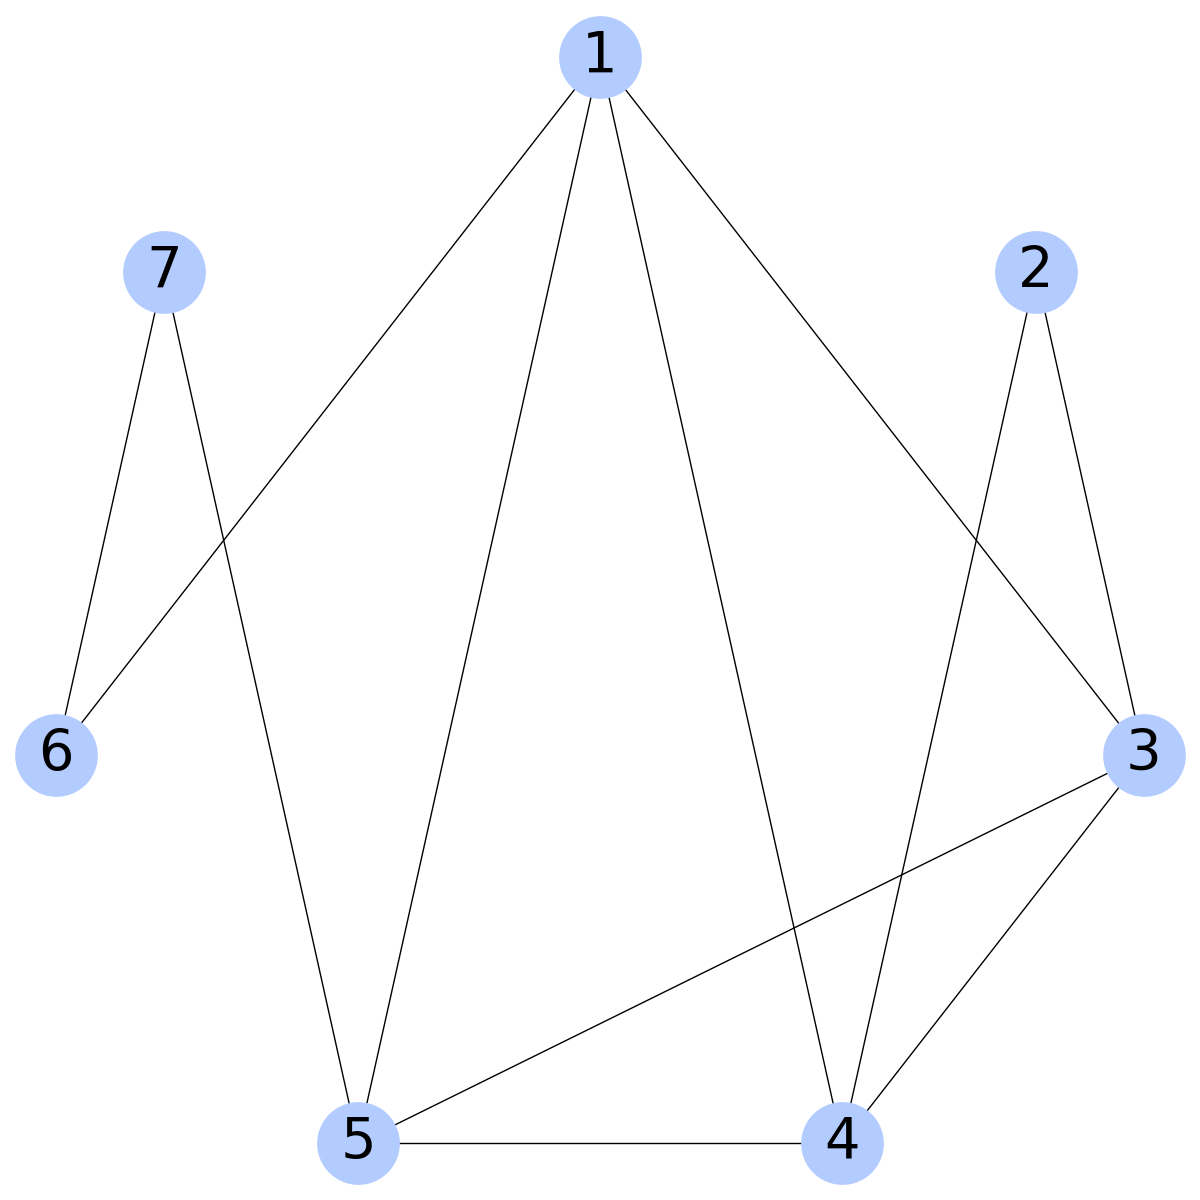
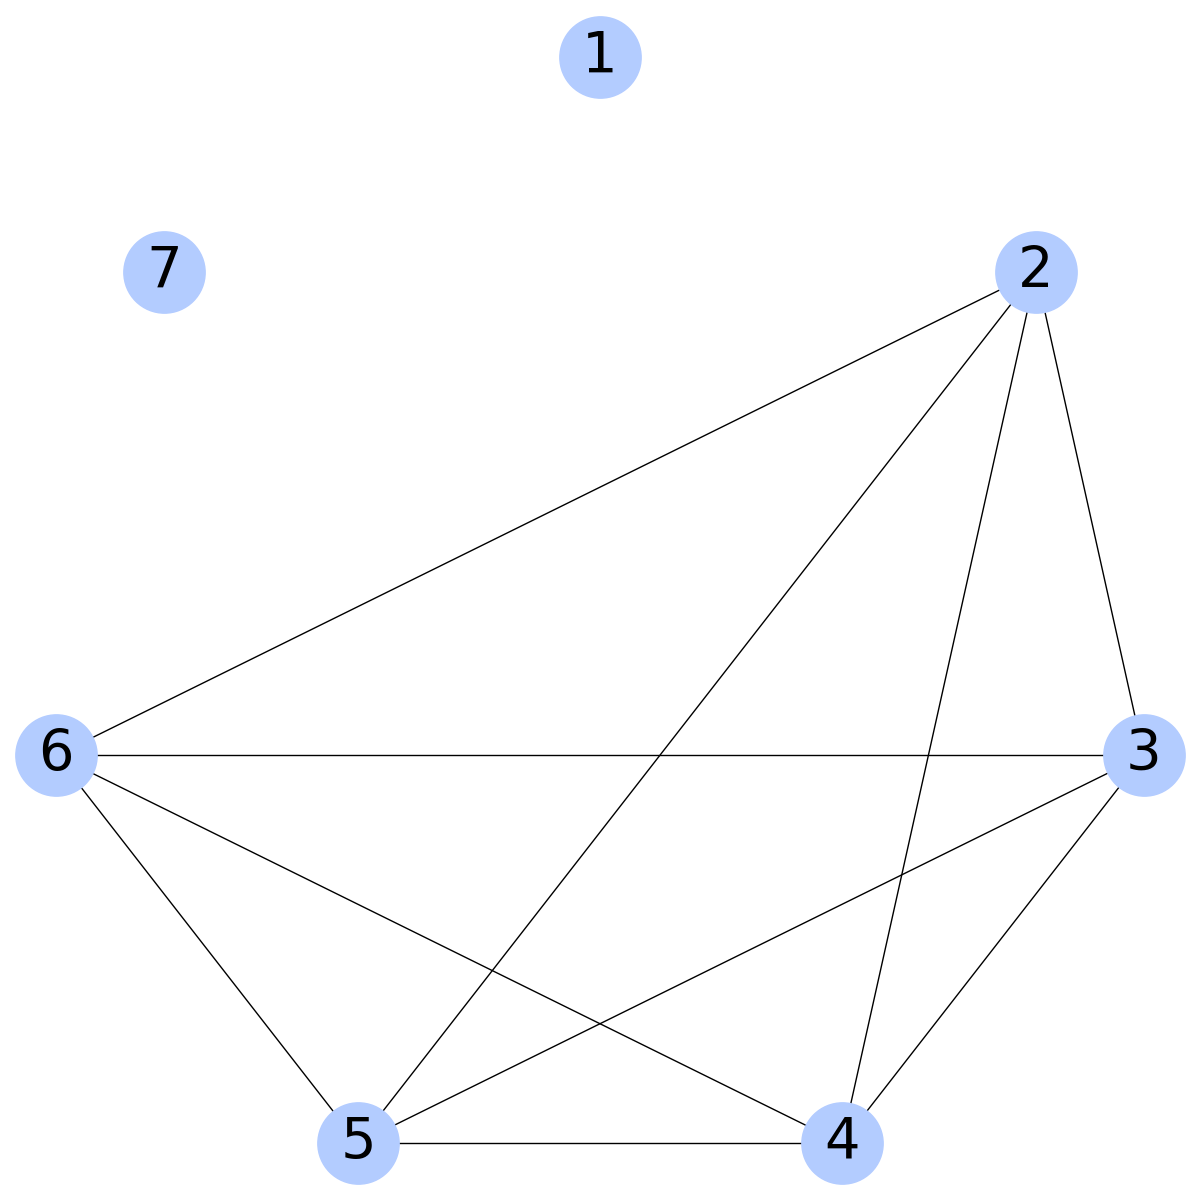
fixed task04 and added main

diff --git a/project02/task04.py b/project02/task04.py
@@ -41,8 +41,17 @@ def gen_eulerian_seq(n):
 	return seq
 	
 	
+def only_one_comp(graph):
+	comps,max = components_list_and_max(graph)
+	comps.remove(comps[max-1])
+	for x in comps:
+		if x > 1:
+			return False
+		
+	return True
+		
 
-def find_next_node(edges, curr):
+def find_next_node(edges, curr,first):
 	not_bridges = []
 	bridges = []
 	
@@ -52,20 +61,38 @@ def find_next_node(edges, curr):
 				bridges.append(edges[i])
 			else:
 				not_bridges.append(edges[i])
+
+	with_first_in_edges = [ e for e in edges if e[0]==first or e[1]==first]
+
 	if not_bridges:
-		if not_bridges[0][0] == curr:
-			return not_bridges[0][1]
+		inx = rnd.randint(0,(len(not_bridges)-1))
+		if not_bridges[inx][0] == curr:
+			return not_bridges[inx][1]
 		else:
-			return not_bridges[0][0]
+			return not_bridges[inx][0]
 	else: 
-		if bridges[0][0] == curr:
-			return bridges[0][1]
+		if len(with_first_in_edges) > 0:
+			inx = rnd.randint(0,(len(bridges)-1))
+			if bridges[inx][0] == curr:
+				return bridges[inx][1]
+			else:
+				return bridges[inx][0]
 		else:
-			return bridges[0][0]
+			if 1 < len(bridges):
+				inx = rnd.randint(1,(len(bridges)-1))
+				if bridges[inx][0] == curr:
+					return bridges[inx][1]
+				else:
+					return bridges[inx][0]
+			else:
+				False
+		
+
 
 
 def find_eulerian_cycle(graph):
-	inc_list =  adj2list(subgraph)
+	finish = False
+	inc_list =  adj2list(graph)
 	edges = []
 	for i in range(len(inc_list)):
 		for j in range(len(inc_list[i])):
@@ -73,56 +100,59 @@ def find_eulerian_cycle(graph):
 				k = inc_list[i][j]
 				if ((i+1, k) not in edges) and (( k, i+1)  not in edges):
 					edges.append((i+1, k))
-
+	
 	visited_edges, visited_vertices = [], []
-	first = edges[0][0]
+	(first,second) = edges[0]
 	visited_edges.append(edges[0])
-	visited_vertices.append(edges[0][0])
-	visited_vertices.append(edges[0][1])
-	prev = edges[0][0]
-	curr = edges[0][1]
+	visited_vertices.append(first)
+	visited_vertices.append(second)
+	prev = first
+	curr = second
 	edges.remove(edges[0])
-
 	
 	while edges:
 		prev = curr
 		if len(edges) == 1:
 			visited_edges.append((prev, first))
 			visited_vertices.append(first)
+			finish = True
 			break
-			
-		curr = find_next_node(edges, curr)
-
-		visited_edges.append((prev, curr))
-		visited_vertices.append(curr)
-		if (prev, curr) in edges:
-			edges.remove((prev, curr))
+		curr = find_next_node(edges, curr,first)
+		if curr == None:
+			break;
 		else:
-			edges.remove((curr,prev))	
+			visited_edges.append((prev, curr))
+			visited_vertices.append(curr)
+			if (prev, curr) in edges:
+				edges.remove((prev, curr))
+			else:
+				edges.remove((curr,prev))	
 	
+	if not finish:
+		find_eulerian_cycle(graph)
 	return visited_vertices
 	
 
 	
 
-if __name__ == "__main__":
+def task04():
 	
 	n = 0
 	n =  int(input("\nPodaj liczbę n (>=3) wierzchołów, dla których utworzony zostanie graf eulerowski:\n"))
 	while n < 3:
 		n =  int(input("Nieprawidłowa wartość n. Spróbuj ponownie: "))
 	
-	
+
 	seq = gen_eulerian_seq(n)
-	print("\n__Wygenerowany losowy ciąg (grafu eulerowskiego): ", seq)
-	print("__Graf w postaci macierzy sąsiedztwa:")
 	graph = seq_to_adj_matrix(seq)
 	graph = rearange_matrix_by_seq(graph,seq)
-	printMatrix(graph)
-	print("__Graficzna wersja grafu zapisana w pliku: images/eulerian_graph.png\n")
-	draw_graph_from_adj_matrix(graph, "eulerian_graph.png")
-
 	
+	while not only_one_comp(graph):
+		seq = gen_eulerian_seq(n)
+		graph = seq_to_adj_matrix(seq)
+		graph = rearange_matrix_by_seq(graph,seq)
+		
+
 	seq_subgraph = []
 	csg_labels = []
 	
@@ -130,11 +160,22 @@ if __name__ == "__main__":
 		if seq[i] != 0:
 			seq_subgraph.append(seq[i])
 			csg_labels.append(i+1)
-	
+
 	# spójna część grafu 'graph' ( graf graph bez wierzchołków izolowanych )
 	subgraph = matrix_remove_zeros(graph)
 	cycle_list = find_eulerian_cycle(subgraph)
 
+
+
+
+				
+	print("\n__Wygenerowany losowy ciąg (grafu eulerowskiego): ", seq)
+	print("__Graf Eulera w postaci macierzy sąsiedztwa:")
+	printMatrix(graph)
+	print("__Graficzna wersja grafu zapisana w pliku: images/eulerian_graph.png\n")
+	draw_graph_from_adj_matrix(graph, "eulerian_graph.png")
+			
+	
 
 	print("__Cykl Eulera wygenerowanego grafu:")
 	for i in range(len(cycle_list)-1):

diff --git a/project02/main.py b/project02/main.py
@@ -1,0 +1,36 @@
+from task04 import task04
+
+if __name__ == "__main__":		
+	
+	print("\n\nTEMATYKA PROGRAMÓW:")
+	print("----------------------------------------------------------------------------------------")
+	print("1. Program do sprawdzania, czy dana sekwencja liczb naturalnych jest ciągiem graficznym, \n   i do konstruowania grafu prostego o stopniach wierzchołków zadanych przez ciąg graficznym.")
+	print("2. Program do randomizacji grafów prostych o zadanych stopniach wierzchołków \n   (wielokrotna operacja zamieniającą losowo wybraną parę krawędzi: ab i cd na parę ad i bc).")
+	print("3. Program do znajdowania największej spójnej składowej na grafie")
+	print("4. Program do tworzenia losowego grafu eulerowskiego i znajdowania na nim cyklu Eulera")
+	print("5. Program do generowania losowych grafów k-regularnych.")
+	print("6. Program do  sprawdzania (dla małych grafów), czy graf jest hamiltonowski.")
+	print("----------------------------------------------------------------------------------------")
+	
+	task_num = 0
+	while task_num < 1 or task_num > 6:
+		task_num =  int(input("\nWybierz prawidłowy numer zadania:\n"))
+	
+
+	if task_num == 1:
+		# TO DO
+		pass
+	elif task_num == 2:
+		# TO DO
+		pass
+	elif task_num == 3:
+		# TO DO
+		pass
+	elif task_num == 4:
+		task04()
+	elif task_num == 5:
+		# TO DO
+		pass
+	elif task_num == 6:
+		# TO DO
+		pass

diff --git a/project02/utils_proj02.py b/project02/utils_proj02.py
@@ -53,25 +53,33 @@ def matrix_remove_zeros(matrix):
 
 def graph_from_edges(edges):
 	
-	size = max( max( edges, key = lambda t: t[0] )[0], max( edges, key = lambda t: t[1] )[1] ) + 1
+	size = max( max( edges, key = lambda t: t[0] )[0], max( edges, key = lambda t: t[1] )[1] )
 	matrix = [[ 0 for i in range(size)] for j in range(size)]
 	for e in edges:
-		matrix[e[0]][e[1]] = 1
-		matrix[e[1]][e[0]] = 1
+		matrix[e[0]-1][e[1]-1] = 1
+		matrix[e[1]-1][e[0]-1] = 1
 
 	return matrix
 
-	
+def components_list_and_max(graph):
+	with HiddenPrints():
+		max, comps = printComponents(graph)
+		return comps,max
+		
 def is_bridge(edges, e):
 	edge_list = copy.deepcopy(edges)
-	edge_list.remove(e)
 	graph = graph_from_edges(edge_list)
+	graph[e[0]-1][e[1]-1] = 0
+	graph[e[1]-1][e[0]-1] = 0
 	comp = components(graph)
-	if len(comp) == 1:
+	
+	if sum(comp) == len(comp):
 		return False
 	else:
 		return True
 		
+		
+	
 
 def rearange_matrix_by_seq(matrix, seq):
 	for i in range(len(seq)):

diff --git a/project02/task03.py b/project02/task03.py
@@ -57,7 +57,7 @@ def printComponents(graph):
         print()
     print("Największa składowa ma numer", comps.index(max(comps))+1)
     
-    return comps.index(max(comps))+1
+    return comps.index(max(comps))+1, comps
 
 def drawComponents(graph, filename):
     """
